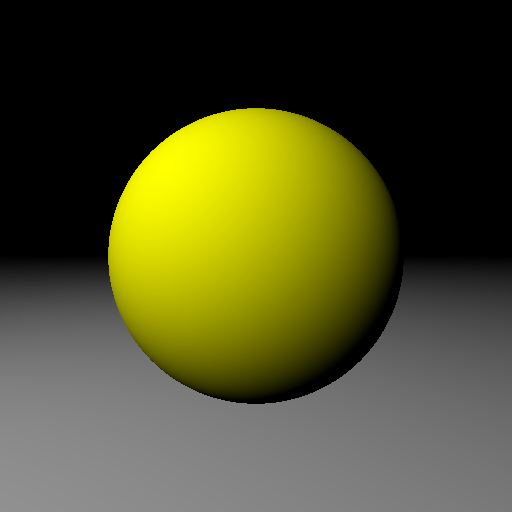
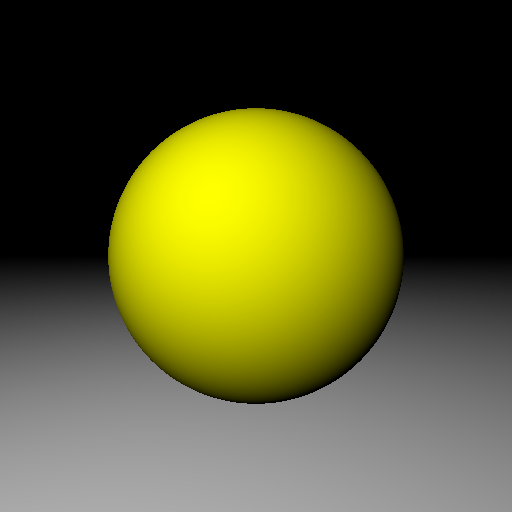
Add Shape, Plane and Scene, and render the ball on its floor
- Shape is an interface; Sphere and Plane implement it, each with a Material
- HitInfo now carries the material and t
- Scene owns the shapes and the light and finds the nearest hit
- trace(ray, scene) shades the nearest hit; Camera::render works on a Scene
- main renders a yellow ball on a white floor to image.png, lit from the
  front so the whole ball and the floor are visible
- Remove the greeting placeholder
- Add tests for Plane, Scene and trace, with shared test helpers
- Add ADR 0008 (a shape has a material), ADR 0009 (Shape interface and
  Scene) and the m1 domain model

diff --git a/src/main.cpp b/src/main.cpp
@@ -17,17 +17,18 @@ int main()
     const int imageWidth = 512;
     const int imageHeight = 512;
 
-    // Describe the scene, lit by a white light above, to the left of and in
-    // front of the ball
-    Scene scene(Light(Vector(-10, 10, -10), Colour(1.0, 1.0, 1.0)));
+    // Describe the scene, lit by a white light high above and a little to the
+    // left, close to the camera, so the whole front of the ball and the
+    // floor around it are well lit
+    Scene scene(Light(Vector(-3, 4, -6), Colour(1.0, 1.0, 1.0)));
 
     // A yellow ball of radius 5...
     scene.add(std::make_unique<Sphere>(Vector(0, 0, 9), 5,
                                        std::make_shared<LambertShader>(Colour(1.0, 1.0, 0.0))));
 
-    // ...resting on a grey floor: the plane y = -5, facing up
+    // ...resting on a light grey floor: the plane y = -5, facing up
     scene.add(std::make_unique<Plane>(Vector(0, -5, 0), Vector(0, 1, 0),
-                                      std::make_shared<LambertShader>(Colour(0.8, 0.8, 0.8))));
+                                      std::make_shared<LambertShader>(Colour(1.0, 1.0, 1.0))));
 
     // Position and configure the camera
     Camera camera(Vector(0, 0, -1), 2.0);
